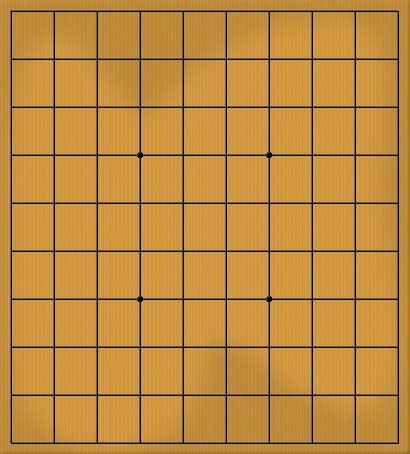
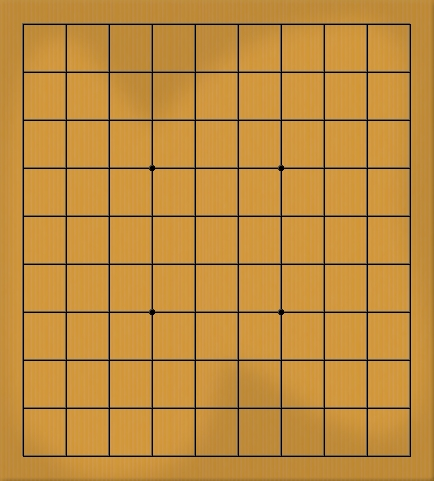
Ragnarok.Presentation.Shogi/Resources/Image/ban: 盤画像を更新し、上下左右の隙間を大きくしました。 Ragnarok.Presentation.Shogi/View/ShogiControl.xaml, Ragnarok.Presentation.Shogi/Xaml/TebanMeshConverter.cs: 符号を大きく表示するように盤の配置を変更しました。 Ragnarok/Net/ProtoBuf/PbConnection.cs: アプリケーションレベルでのKeepAlive機能を追加しました。

Changed region(s): [[0.0, 0.0, 0.9951, 0.9868]]

diff --git a/Ragnarok.Presentation.Shogi/View/ShogiControl.xaml b/Ragnarok.Presentation.Shogi/View/ShogiControl.xaml
@@ -23,10 +23,9 @@
             <DataTemplate x:Key="titleTemplate">
                 <Viewbox>
                     <TextBlock Text="{Binding}"
-                               FontWeight="Bold"
                                HorizontalAlignment="Center"
                                VerticalAlignment="Center"
-                               Margin="2,-1,2,-1"/>
+                               Margin="2,0,2,0"/>
                 </Viewbox>
             </DataTemplate>
 
@@ -87,14 +86,14 @@
                   Width="100" Height="100"
                   Background="Transparent">
                 <Grid.RowDefinitions>
-                    <RowDefinition Height="3.0*" />
-                    <RowDefinition Height="100*" />
-                    <RowDefinition Height="3.0*" />
+                    <RowDefinition Height="5*" />
+                    <RowDefinition Height="90*" />
+                    <RowDefinition Height="5*" />
                 </Grid.RowDefinitions>
                 <Grid.ColumnDefinitions>
-                    <ColumnDefinition Width="3.0*" />
-                    <ColumnDefinition Width="100*" />
-                    <ColumnDefinition Width="3.0*" />
+                    <ColumnDefinition Width="5*" />
+                    <ColumnDefinition Width="90*" />
+                    <ColumnDefinition Width="5*" />
                 </Grid.ColumnDefinitions>
 
                 <!-- 段と列の数字を表示します。-->

diff --git a/Ragnarok/Net/ProtoBuf/PbConnection.cs b/Ragnarok/Net/ProtoBuf/PbConnection.cs
@@ -303,15 +303,8 @@ namespace Ragnarok.Net.ProtoBuf
             new Dictionary<int, PbRequestData>();
         private readonly Dictionary<Type, HandlerInfo> handlerDic =
             new Dictionary<Type, HandlerInfo>();
-
-        /// <summary>
-        /// レスポンス応答のデフォルトタイムアウト時間を取得または設定します。
-        /// </summary>
-        public TimeSpan DefaultRequestTimeout
-        {
-            get;
-            set;
-        }
+        private readonly Timer keepAliveTimer;
+        private TimeSpan keepAliveInterval;
 
         /// <summary>
         /// プロトコルのバージョンを取得または設定します。
@@ -320,6 +313,43 @@ namespace Ragnarok.Net.ProtoBuf
         {
             get;
             set;
+        }
+
+        /// <summary>
+        /// レスポンス応答のデフォルトタイムアウト時間を取得または設定します。
+        /// </summary>
+        /// <remarks>
+        /// デフォルト値はタイムアウト時間が無制限に設定されます。
+        /// </remarks>
+        public TimeSpan DefaultRequestTimeout
+        {
+            get;
+            set;
+        }
+
+        /// <summary>
+        /// 通信相手の存在確認を行う時間間隔を取得または設定します。
+        /// </summary>
+        /// <remarks>
+        /// デフォルト値は１０分間隔に設定されます。
+        /// </remarks>
+        public TimeSpan KeepAliveInterval
+        {
+            get { return this.keepAliveInterval; }
+            set
+            {
+                // 値が小さすぎる場合は無視します。
+                if (value == TimeSpan.MinValue || value <= TimeSpan.Zero)
+                {
+                    return;
+                }
+
+                this.keepAliveInterval = value;
+
+                // keepaliveの時間間隔を再設定します。
+                this.keepAliveTimer.Change(
+                    TimeSpan.FromSeconds(1), value);
+            }
         }
 
         /// <summary>
@@ -483,6 +513,45 @@ namespace Ragnarok.Net.ProtoBuf
 
             // バージョンチェックの結果を返します。
             e.Response = new PbCheckProtocolVersionResponse(result);
+        }
+
+        /// <summary>
+        /// 存在確認リクエストを送信します。
+        /// </summary>
+        private void SendKeepAlive()
+        {
+            try
+            {
+                // 型を指定しないといくつかのコンパイラではコンパイルに失敗します。
+                SendRequest<PbKeepAliveRequest, PbKeepAliveResponse>(
+                    new PbKeepAliveRequest(),
+                    TimeSpan.FromSeconds(60 * 2),
+                    (object sender,
+                     PbResponseEventArgs<PbKeepAliveResponse> e) =>
+                    {
+                        if (e.ErrorCode != 0)
+                        {
+                            // 異常検知
+                            Disconnect();
+                        }
+                    },
+                    false);
+            }
+            catch (Exception ex)
+            {
+                Log.ErrorException(ex,
+                    "KeepAliveの送信に失敗しました。");
+            }
+        }
+
+        /// <summary>
+        /// 存在確認リクエストを処理します。
+        /// </summary>
+        private void HandleKeepAliveRequest(
+            object sender,
+            PbRequestEventArgs<PbKeepAliveRequest, PbKeepAliveResponse> e)
+        {
+            e.Response = new PbKeepAliveResponse();
         }
 
         #region 型名変換
@@ -1115,19 +1184,30 @@ namespace Ragnarok.Net.ProtoBuf
         }
         #endregion
 
+        private void OnKeepAliveCallback(object state)
+        {
+            SendKeepAlive();
+        }
+
         /// <summary>
         /// コンストラクタ
         /// </summary>
         public PbConnection()
         {
-            InitReceivedPacket();
+            // KeepAliveIntervalプロパティを設定する前にnewします。
+            this.keepAliveTimer = new Timer(OnKeepAliveCallback);
 
+            InitReceivedPacket();
             ProtocolVersion = new PbProtocolVersion();
             DefaultRequestTimeout = TimeSpan.MaxValue;
+            KeepAliveInterval = TimeSpan.FromMinutes(10);
 
             AddRequestHandler<PbCheckProtocolVersionRequest,
                               PbCheckProtocolVersionResponse>(
                 HandleCheckProtocolVersionRequest);
+            AddRequestHandler<PbKeepAliveRequest,
+                              PbKeepAliveResponse>(
+                HandleKeepAliveRequest);
         }
     }
 }

diff --git a/Ragnarok.Presentation.Shogi/View/ShogiControl.xaml.cs b/Ragnarok.Presentation.Shogi/View/ShogiControl.xaml.cs
@@ -1526,12 +1526,13 @@ namespace Ragnarok.Presentation.Shogi.View
             // 各マスのサイズを設定します。
             var bounds = this.banGeometry.Bounds;
 
+            // 駒の表示サイズなどを計算します。
             CellSize = new Size(
-                bounds.SizeX / (Board.BoardSize + 0.5),
-                bounds.SizeY / (Board.BoardSize + 0.5));
+                bounds.SizeX / (Board.BoardSize + 1),
+                bounds.SizeY / (Board.BoardSize + 1));
             BanBounds = new Rect(
-                bounds.X + CellSize.Width / 4.0,
-                bounds.Y + CellSize.Height / 4.0,
+                bounds.X + CellSize.Width / 2.0,
+                bounds.Y + CellSize.Height / 2.0,
                 CellSize.Width * Board.BoardSize,
                 CellSize.Height * Board.BoardSize);
 

diff --git a/Ragnarok.Presentation.Shogi/Xaml/TebanMeshConverter.cs b/Ragnarok.Presentation.Shogi/Xaml/TebanMeshConverter.cs
@@ -23,13 +23,13 @@ namespace Ragnarok.Presentation.Shogi.Xaml
         public object Convert(object value, Type targetType,
                               object parameter, CultureInfo culture)
         {
-            // マスの数９×マスのサイズ(1.0)＋左右の幅(0.25 * 2) = 9.5
+            // マスの数９×マスのサイズ(1.0)＋左右の幅(0.5 * 2) = 10.0
             var points = new Point3DCollection();
             var indices = new Int32Collection();
             var bwType = (BWType)value;
-            var w = 0.25 / 9.0;
+            var w = 0.5 / 9.0;
             var h = 9.0 / 9.0;
-            var t0 = h * 0.25;
+            var t0 = h * 0.5;
             var t1 = h * 0.8;
 
             var rectList = new List<Rect>

diff --git a/Ragnarok.Presentation.Shogi/Properties/AssemblyInfo.cs b/Ragnarok.Presentation.Shogi/Properties/AssemblyInfo.cs
@@ -38,6 +38,7 @@ using System.Windows.Markup;
     ResourceDictionaryLocation.SourceAssembly
 )]
 
+[assembly: XmlnsDefinition("http://schemas.garnet-alice.net/ragnarok/xaml/presentation", "Ragnarok.Presentation.Shogi")]
 [assembly: XmlnsDefinition("http://schemas.garnet-alice.net/ragnarok/xaml/presentation", "Ragnarok.Presentation.Shogi.Effects")]
 [assembly: XmlnsDefinition("http://schemas.garnet-alice.net/ragnarok/xaml/presentation", "Ragnarok.Presentation.Shogi.View")]
 [assembly: XmlnsDefinition("http://schemas.garnet-alice.net/ragnarok/xaml/presentation", "Ragnarok.Presentation.Shogi.ViewModel")]

diff --git a/Ragnarok/Net/ProtoBuf/PbKeepAlive.cs b/Ragnarok/Net/ProtoBuf/PbKeepAlive.cs
@@ -1,0 +1,25 @@
+using System;
+using System.Collections.Generic;
+using System.Linq;
+using System.Runtime.Serialization;
+
+namespace Ragnarok.Net.ProtoBuf
+{
+    /// <summary>
+    /// 相手の存在確認に使います。
+    /// </summary>
+    [DataContract()]
+    [Serializable()]
+    internal sealed class PbKeepAliveRequest
+    {
+    }
+
+    /// <summary>
+    /// 相手の存在確認に使います。
+    /// </summary>
+    [DataContract()]
+    [Serializable()]
+    internal sealed class PbKeepAliveResponse
+    {
+    }
+}

diff --git a/Ragnarok.Presentation.Shogi/ImageType.cs b/Ragnarok.Presentation.Shogi/ImageType.cs
@@ -57,7 +57,7 @@ namespace Ragnarok.Presentation.Shogi
         /// <summary>
         /// 紙
         /// </summary>
-        [LabelDescription(Label = "紙", Description = "ban/ban_paper.png")]
+        [LabelDescription(Label = "紙", Description = "ban/ban_paper.jpg")]
         Paper,
     }
 
